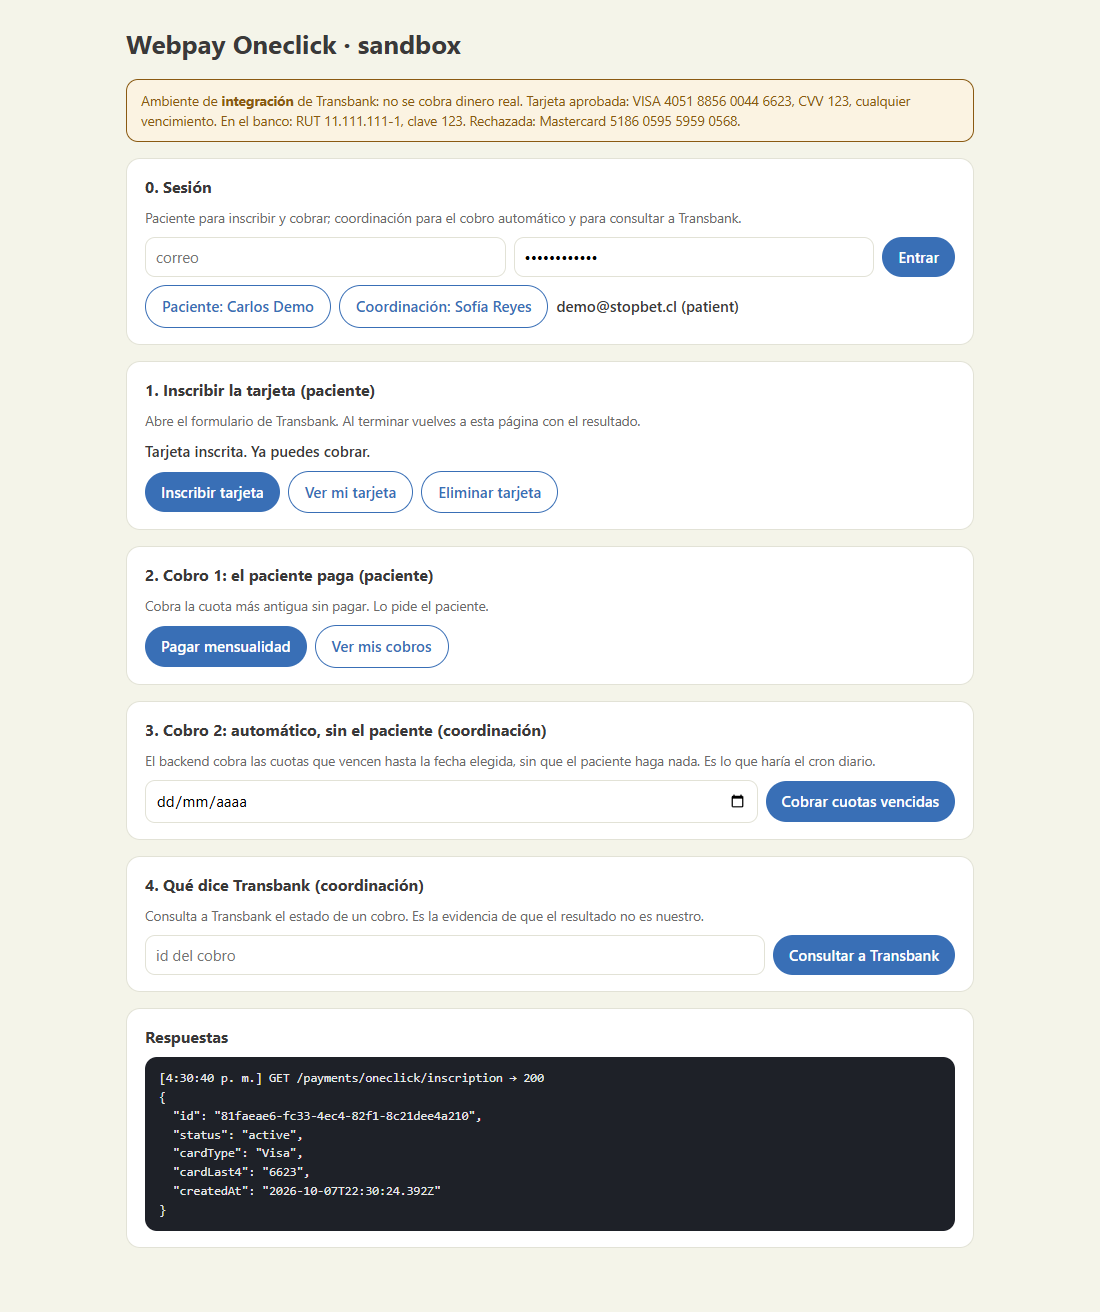
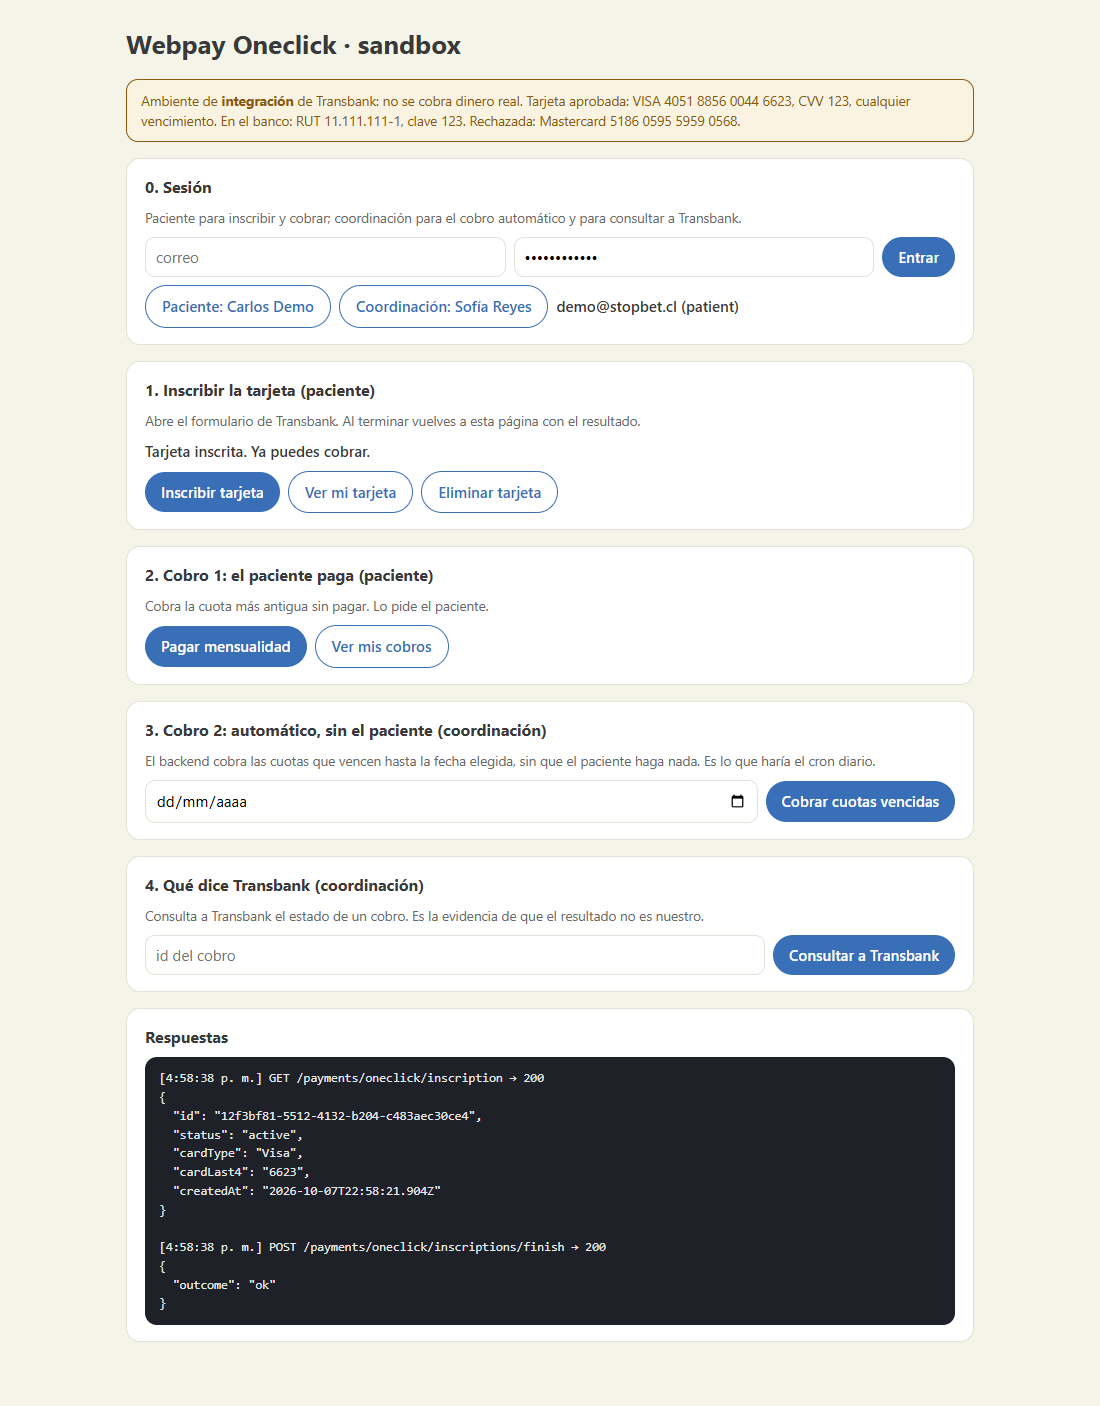
docs(SPIKE-2): actualizar el flujo, la matriz de permisos y la evidencia tras el arreglo de seguridad
Repite la evidencia contra el sandbox de Transbank con el cierre autenticado
de la inscripción (dos cobros AUTHORIZED, el segundo automático) y documenta
las dos reglas nuevas: el retorno no cierra nada y una cuenta suspendida ni
se cobra ni se reactiva por un cobro.

Changed region(s): [[0.1236, 0.0312, 0.8964, 0.9688], [0.8036, 0.1562, 0.8655, 0.2188]]

diff --git a/docs/planning/spike2-pasarela-pago.md b/docs/planning/spike2-pasarela-pago.md
@@ -168,9 +168,12 @@ Paciente (sesión)          Backend (StopBet)                     Transbank (int
       │◀── { token, urlWebpay } ──│◀──────────────── token + url_webpay ─────│
       │  el navegador hace POST con TBK_TOKEN a urlWebpay ─────────────────▶│  formulario + banco
       │◀──────────── vuelve por GET/POST a /inscriptions/return?TBK_TOKEN ───│
+      │◀── 303: el retorno solo REENVÍA el token a la página, no cierra nada
+      │  POST /inscriptions/finish { token } ─▶│  con la SESIÓN del paciente
+      │                           │  ¿la inscripción es de este usuario? si no: «error»
       │                           │  finish(token) ──────────────────────────▶│  (dentro de 60 s)
       │                           │◀── tbk_user + tipo y últimos 4 dígitos ───│  se guarda cifrado
-      │◀── 303 a la página con el resultado
+      │◀── { outcome: "ok" }
 
 COBRO 1 (lo pide el paciente)      POST /charges ──▶ authorize(tbk_user, buyOrder, monto) ──▶ AUTHORIZED
 COBRO 2 (sin el paciente)          run-due / cron ──▶ authorize(...) con la misma tarjeta ───▶ AUTHORIZED
@@ -188,7 +191,7 @@ columna que el RUT), el tipo de tarjeta y los **últimos 4 dígitos**.
 | `payment_inscriptions` | La tarjeta del paciente. Índice único parcial: **una sola activa por usuario**. Estados: `pending`, `active`, `failed`, `aborted`, `deleted`. |
 | `payment_charges` | Cada intento de cobro, con la orden de compra padre e hija (únicas, ≤26 caracteres), monto, `triggeredBy` (`user` o `automatic`), estado y el código y la hora que devuelve Transbank. |
 | `oneclick-payments.service.ts` | Inscripción, cobro de una cuota, cobro de las vencidas y el cron. Liquida la cuota con `BillingService.settleInvoices`, la misma ruta que usa el pago simulado, así que reactiva la cuenta y crea la cuota siguiente igual que hoy. |
-| `tbk-return-params.decorator.ts` | Lee **solo** `TBK_TOKEN`, `TBK_ORDEN_COMPRA` y `TBK_ID_SESION` del retorno de Transbank. Con un DTO, el `ValidationPipe` global (`forbidNonWhitelisted`) respondería 400 al navegador ante cualquier campo extra. |
+| `tbk-return-params.decorator.ts` | Lee **solo** `TBK_TOKEN`, `TBK_ORDEN_COMPRA` y `TBK_ID_SESION` del retorno de Transbank, para reenviarlos. Con un DTO, el `ValidationPipe` global (`forbidNonWhitelisted`) respondería 400 al navegador ante cualquier campo extra. El cierre, que sí viene del cliente con sesión, usa un DTO normal (`finish-inscription.dto.ts`). |
 | `oneclick-test-page.ts` | La página de prueba (`/payments/oneclick/test-page`), con los botones de cada paso y la respuesta JSON a la vista. |
 
 ### 4.3 Endpoints
@@ -196,7 +199,8 @@ columna que el RUT), el tipo de tarjeta y los **últimos 4 dígitos**.
 | Endpoint | Acceso | Para qué |
 |---|---|---|
 | `POST /payments/oneclick/inscriptions` | paciente | Inscribir la tarjeta |
-| `GET` y `POST /payments/oneclick/inscriptions/return` | público, 20 por minuto | A donde vuelve Transbank; siempre redirige 303 al resultado |
+| `GET` y `POST /payments/oneclick/inscriptions/return` | público, 20 por minuto | A donde vuelve Transbank. **No cierra nada**: redirige 303 a la página reenviando `TBK_*` |
+| `POST /payments/oneclick/inscriptions/finish` | paciente (dueño de la inscripción) | Cierra la inscripción con lo que Transbank dejó en la URL; devuelve `{ outcome }` |
 | `GET` y `DELETE /payments/oneclick/inscription` | paciente | Ver o eliminar la tarjeta |
 | `POST /payments/oneclick/charges` | paciente | **Cobro 1** |
 | `GET /payments/oneclick/charges` | paciente | Sus cobros |
@@ -217,7 +221,22 @@ El riesgo real de un cobro automático es cobrar dos veces la misma cuota. Tres 
 3. Aprobado quiere decir `response_code === 0` **y** `status === 'AUTHORIZED'` en **cada** detalle. El
    ejemplo del SDK mira un `status` de nivel superior que la respuesta no trae.
 
-### 4.5 Configuración
+### 4.5 Quién puede inscribir y a quién se cobra
+
+Dos reglas que salieron de la revisión de seguridad del PR:
+1. **El retorno de Transbank no cierra la inscripción.** Es una redirección del navegador y llega sin
+   sesión; si cerrara con solo el token, quien abre un formulario con su propia cuenta podría hacer que
+   otra persona lo complete con SU tarjeta y dejarla atada a la cuenta de quien lo abrió (así quedaría
+   cobrándose la mensualidad del atacante). Por eso la cierra `POST /inscriptions/finish`, que exige la
+   sesión del paciente y que **la inscripción sea suya**; una ajena responde igual que una inexistente.
+   En el cliente real (app o web) la pantalla de resultado hace esa llamada al volver de Transbank.
+2. **Una cuenta suspendida no se cobra ni se reactiva por un cobro.** Suspender una cuenta cierra su
+   acceso; el cobro automático no tiene sesión que se lo impida, así que lo respeta él: omite la cuota y
+   no toca la cuenta. Solo el pago simulado (`POST /billing/pay`, que pide el propio paciente con su
+   sesión) sigue reactivando. Si el cliente quiere que pagar levante una suspensión por mora, hay que
+   decidirlo (`ASUNCIONES-PENDIENTES.md`, punto 5).
+
+### 4.6 Configuración
 
 Todo opcional. Sin ninguna variable usa el ambiente de integración con las credenciales públicas de
 Transbank (no se cobra dinero real).
@@ -232,14 +251,14 @@ Transbank (no se cobra dinero real).
 
 Los logs llevan ids, orden de compra, estado y código. **Nunca** correo, `tbk_user`, `TBK_TOKEN` ni datos de tarjeta.
 
-### 4.6 Tests
+### 4.7 Tests
 
 - **Unitarios** (`payments/*.spec.ts`, `billing/billing.service.spec.ts`): inscripción ok, rechazada, anulada, repetida y con timeout; cobro autorizado que liquida la cuota; rechazado que no la toca; error de red que consulta el estado; sin doble cobro; el mapeo de las respuestas del SDK.
-- **e2e** (`test/payments.e2e-spec.ts`, 27 casos): Transbank reemplazado por un gateway falso, así que corre en CI. Usa el `ValidationPipe` real de `main.ts`. Cubre permisos, el retorno por GET con parámetros desconocidos y por POST urlencoded, la anulación, **los dos cobros** (paciente y automático), el 409 de la doble cobranza, el rechazo y el 404 de las herramientas de desarrollo.
+- **e2e** (`test/payments.e2e-spec.ts`, 31 casos): Transbank reemplazado por un gateway falso, así que corre en CI. Usa el `ValidationPipe` real de `main.ts`. Cubre permisos, el retorno por GET con parámetros desconocidos y por POST urlencoded, la anulación, que una inscripción abierta por otra persona **no se pueda cerrar con mi sesión**, **los dos cobros** (paciente y automático), el 409 de la doble cobranza, el rechazo, que el cobro automático **omita una cuenta suspendida** y el 404 de las herramientas de desarrollo.
 
 ## 5. Evidencia del sandbox
 
-Corrida del **07-10-2026 (19:30, hora de Chile)** contra `webpay3gint.transbank.cl` (ambiente de
+Corrida del **07-10-2026 (19:58, hora de Chile)** contra `webpay3gint.transbank.cl` (ambiente de
 integración, credenciales públicas), con el backend local y los datos del seed. Paciente: Carlos Demo.
 Coordinación: Sofía Reyes. El recorrido lo hizo un script de Playwright sobre el **formulario real** de
 Transbank, no una simulación.
@@ -250,7 +269,7 @@ VISA de prueba `4051 8856 0044 6623`, banco de prueba (RUT `11.111.111-1`, clave
 
 ![Formulario de Transbank con la tarjeta de prueba](img/spike2-pago-1-formulario-transbank.png)
 
-Resultado en StopBet: tarjeta `Visa` terminada en `6623`, estado `active`, código de respuesta `0`. El
+La página cierra la inscripción al volver de Transbank, con la sesión del paciente (`POST /inscriptions/finish`). Resultado en StopBet: tarjeta `Visa` terminada en `6623`, estado `active`, código de respuesta `0`. El
 `tbk_user` queda cifrado en la columna (no se muestra en ninguna respuesta de la API).
 
 ![Tarjeta inscrita](img/spike2-pago-2-tarjeta-inscrita.png)
@@ -262,9 +281,9 @@ Resultado en StopBet: tarjeta `Visa` terminada en `6623`, estado `active`, códi
 | Quién lo dispara | el paciente (`POST /charges`) | el backend, **sin sesión del paciente** (`run-due` como coordinación) |
 | `triggeredBy` | `user` | `automatic` |
 | Cuota | 2026-10 · $30.000 | 2026-11 · $30.000 |
-| Orden de compra | `SBMUYI61LWB3PDJM` | `SBMUYI6BHX6VGXEZ` |
+| Orden de compra | `SBMUYJ60G3ECI6VK` | `SBMUYJ6AJ2WR299O` |
 | Resultado | `AUTHORIZED`, código `0`, autorización `1213` | `AUTHORIZED`, código `0`, autorización `1213` |
-| Hora que informa Transbank | 19:30:43 (Chile) | 19:30:56 (Chile) |
+| Hora que informa Transbank | 19:58:41 (Chile) | 19:58:54 (Chile) |
 | Estado de la cuota después | `paid` | `paid` |
 
 ![Cobro 1, el paciente paga](img/spike2-pago-3-cobro-1-paciente.png)
@@ -275,18 +294,18 @@ Resultado en StopBet: tarjeta `Visa` terminada en `6623`, estado `active`, códi
 la orden de compra de cada cobro:
 
 ```json
-{ "buyOrder": "SBMUYI61LWB3PDJM", "approved": true, "status": "AUTHORIZED", "responseCode": 0,
-  "authorizationCode": "1213", "transactionDate": "2026-10-07T22:30:43.777Z" }
-{ "buyOrder": "SBMUYI6BHX6VGXEZ", "approved": true, "status": "AUTHORIZED", "responseCode": 0,
-  "authorizationCode": "1213", "transactionDate": "2026-10-07T22:30:56.616Z" }
+{ "buyOrder": "SBMUYJ60G3ECI6VK", "approved": true, "status": "AUTHORIZED", "responseCode": 0,
+  "authorizationCode": "1213", "transactionDate": "2026-10-07T22:58:41.834Z" }
+{ "buyOrder": "SBMUYJ6AJ2WR299O", "approved": true, "status": "AUTHORIZED", "responseCode": 0,
+  "authorizationCode": "1213", "transactionDate": "2026-10-07T22:58:54.900Z" }
 ```
 
 **En la base** (`payment_charges` unido con `invoices`):
 
 ```
  parentBuyOrder   | amountCLP | status     | trigger   | rc | auth | tipo | month   | factura
- SBMUYI61LWB3PDJM |     30000 | authorized | user      |  0 | 1213 | VN   | 2026-10 | paid
- SBMUYI6BHX6VGXEZ |     30000 | authorized | automatic |  0 | 1213 | VN   | 2026-11 | paid
+ SBMUYJ60G3ECI6VK |     30000 | authorized | user      |  0 | 1213 | VN   | 2026-10 | paid
+ SBMUYJ6AJ2WR299O |     30000 | authorized | automatic |  0 | 1213 | VN   | 2026-11 | paid
 ```
 
 El paciente recibió dos avisos «Recibimos tu pago» (2026-10 y 2026-11) con `target: payment`.
@@ -296,8 +315,10 @@ El paciente recibió dos avisos «Recibimos tu pago» (2026-10 y 2026-11) con `t
 | Caso | Qué se hizo | Resultado |
 |---|---|---|
 | Tarjeta rechazada | Mastercard de prueba `5186 0595 5959 0568` | Transbank la rechaza al inscribir (código `-1`). Inscripción `failed`, el paciente sigue sin tarjeta. |
-| El paciente abandona | «Abandonar y volver» en el formulario de Transbank | Llega `TBK_ORDEN_COMPRA`: no se llama a `finish`. Inscripción `aborted`. |
+| El paciente abandona | «Abandonar y volver» en el formulario de Transbank | Llega `TBK_ORDEN_COMPRA`: no se cierra con Transbank. Inscripción `aborted`. |
 | Eliminar la tarjeta | `DELETE /inscription` | Se borra en Transbank y en StopBet; sirve para repetir la demo. |
+| Cierre con una sesión ajena | Un paciente intenta cerrar la inscripción que abrió otro | Responde `error`, no llama a Transbank y la inscripción del dueño sigue cerrable. (Probado en el e2e.) |
+| Cuenta suspendida | Cobro automático de una cuota vencida de una cuenta suspendida | Se omite: no se cobra, la cuota sigue vencida y la cuenta sigue suspendida. (Probado en el e2e.) |
 | Doble cobro | Cobrar otra vez la cuota ya pagada; correr `run-due` dos veces | 409 y no se llama a Transbank; la segunda corrida no cobra nada. (Probado en el e2e.) |
 
 ---
@@ -324,7 +345,7 @@ Actualizados `docs/ASUNCIONES-PENDIENTES.md`, `docs/presupuesto-stack-2026-09.md
 **Fuera de este Spike** (el sandbox no toca las pantallas de pacientes ni de familiares):
 - **Cambiar el pago simulado por el real** en `PaymentScreen`, `SuspendedAccountScreen` y el portal del familiar.
 - **Quién paga**, el paciente o el familiar (`ASUNCIONES-PENDIENTES.md`, punto 4). Inscribir la tarjeta de un familiar no está resuelto.
-- **Paciente suspendido:** hoy no puede ni iniciar sesión para pagar (punto 5). Un cobro automático lo reactiva **sin que él entre**, lo que resuelve parte del problema. Falta decidir si eso es lo que quiere el cliente.
+- **Paciente suspendido:** hoy no puede ni iniciar sesión para pagar (punto 5). El cobro automático **lo omite y no lo reactiva** a propósito (§4.5): suspender cierra el acceso y ningún cobro sin sesión debe pasar por encima. Si el cliente quiere que pagar levante la suspensión por mora, es una decisión suya.
 - **La regla del tercer mes** (punto 5-bis) y los **reintentos** ante un rechazo: ninguna pasarela decide eso por nosotros con Oneclick.
 - **Devoluciones**, y **qué dice la notificación** al paciente cuando un cobro falla.
 - **Atar la activación de la cuenta** (HdU19) al primer cobro exitoso.
@@ -353,7 +374,7 @@ Cosas que la documentación de Transbank no avisa y que conviene tener a mano al
   ya al inscribir. El rechazo de un cobro se probó solo con tests (unitario y e2e), no contra Transbank.
 - **El `finish` de una inscripción que nunca se completó responde `-96`**, y Transbank documenta que hay que
   llamarlo dentro de 60 s. Se trata como inscripción fallida, sin error para el navegador.
-- **Las inscripciones abandonadas quedan `pending`** para siempre (en la prueba quedaron 4). No molestan, pero
+- **Las inscripciones abandonadas quedan `pending`** para siempre (en la prueba quedaron varias). No molestan, pero
   hace falta una tarea que las venza antes de producción.
 - **Un cobro que queda en `processing`** (red cortada y Transbank sin responder el estado) bloquea su cuota a
   propósito. Falta una tarea de conciliación que lo resuelva consultando a Transbank.

diff --git a/CLAUDE.md b/CLAUDE.md
@@ -40,8 +40,9 @@ Plataforma clínica para tratamiento de ludopatía. Datos de pacientes son **sen
   - **`transbank-sdk` se importa en un solo archivo, `oneclick.gateway.ts`**, porque el SDK devuelve `any` y porque cambiar de pasarela (Flow es el respaldo) tiene que tocar solo ese archivo. Es opcional y se apaga solo, como `MailService`: sin variables usa el ambiente de **integración** (credenciales públicas, sin dinero real); en producción sin los tres datos de comercio responde 503.
   - **Nunca se cobra dos veces la misma cuota.** El cobro se inserta en `processing` **antes** de llamar a Transbank, con un índice único parcial sobre `invoiceId`. Si el `authorize` se corta sin saber si cobró, el cobro **se queda en `processing` y bloquea la cuota a propósito**: es mejor una cuota trabada que revisa una persona que un cobro doble. Falta una tarea de conciliación (ver §7 del documento).
   - ⚠ **Transbank manda la hora de Chile con sufijo `Z`**, no UTC: se convierte con `chileWallClockToDate` (`common/chile-date.ts`). Re-verificarlo con el comercio real.
-  - El retorno del navegador desde Transbank (`/inscriptions/return`) es **público y no usa DTO**: el `ValidationPipe` global (`forbidNonWhitelisted`) le respondería 400 a cualquier campo extra. Lo lee `tbk-return-params.decorator.ts`, que toma solo `TBK_*`.
+  - ⚠ **El retorno del navegador desde Transbank (`/inscriptions/return`) es público y NO cierra la inscripción**: con solo el token cualquiera podría completar la tarjeta de otra persona dentro de SU cuenta. Solo reenvía los parámetros a la página, y la inscripción la cierra `POST /inscriptions/finish` con la sesión del paciente, exigiendo que sea suya. El retorno no usa DTO porque el `ValidationPipe` global (`forbidNonWhitelisted`) le respondería 400 a cualquier campo extra; lo lee `tbk-return-params.decorator.ts`, que toma solo `TBK_*`.
   - **El cobro automático diario está apagado** (`TBK_AUTO_CHARGE_CRON=true` lo enciende): no lo prendas en Railway, cobraría sobre la base de demo. La página de prueba y el cobro por fecha necesitan `ENABLE_DEV_TOOLS=true`.
+  - **Una cuenta suspendida no se cobra ni se reactiva por un cobro.** Suspender cierra el acceso y el cobro automático no tiene sesión que se lo impida: `chargeInvoice` rechaza cuentas no activas y `settleInvoices` solo reactiva si el llamador lo pide (`reactivateAccount`, que usa únicamente el pago simulado).
   - **StopBet nunca ve la tarjeta:** se guarda el `tbk_user` cifrado, el tipo y los últimos 4 dígitos. Los logs no llevan correo, `tbk_user` ni `TBK_TOKEN`.
 - **Mobile** (React Native CLI 0.86): compila y corre en Android físico y en emulador. Flujo y *gotchas* del monorepo en `apps/mobile/README.md`. El check-in se encola en `AsyncStorage` si no hay red y se reintenta al reconectar; el asistente muestra una tarjeta de crisis (pánico / compañero de viaje / `*4141`) ante riesgo alto, y un mensaje de respaldo dentro del hilo si el envío falla.
   - **Rendimiento (22-09, `docs/auditoria-rendimiento-mobile-2026-09-22.md`): 15 de 17 hallazgos aplicados.** El bundle de producción pasó de **3,29 MB a 1,78 MB**. Lo que hay que respetar al escribir código:

diff --git a/docs/security/permissions-matrix.md b/docs/security/permissions-matrix.md
@@ -222,10 +222,11 @@ Sandbox de Webpay Oneclick. Ver [`docs/planning/spike2-pasarela-pago.md`](../pla
 | Método + Path | Rol objetivo | Estado actual |
 |---|---|---|
 | `POST /payments/oneclick/inscriptions` | `patient` | ✅ Protegido |
-| `GET /payments/oneclick/inscriptions/return` y `POST` | Público | 🔓 Público — Transbank devuelve al **navegador** del paciente sin token. Solo lee `TBK_TOKEN`, `TBK_ORDEN_COMPRA` y `TBK_ID_SESION`, `@Throttle` de 20 por minuto, y siempre responde con una redirección, nunca con un error |
+| `GET /payments/oneclick/inscriptions/return` y `POST` | Público | 🔓 Público — Transbank devuelve al **navegador** del paciente sin token. **No cierra la inscripción**: solo lee `TBK_TOKEN`, `TBK_ORDEN_COMPRA` y `TBK_ID_SESION` y los reenvía a la página, `@Throttle` de 20 por minuto, y siempre responde con una redirección, nunca con un error |
+| `POST /payments/oneclick/inscriptions/finish` | `patient` (dueño) | ✅ Protegido — cierra la inscripción **solo si es de quien llama**; una ajena responde `error`, igual que una inexistente. Es lo que evita que alguien deje la tarjeta de otra persona atada a su cuenta |
 | `GET /payments/oneclick/inscription` y `DELETE` | `patient` (dueño) | ✅ Protegido — solo la tarjeta propia; devuelve tipo y últimos 4 dígitos, nunca el `tbk_user` |
 | `POST /payments/oneclick/charges` y `GET` | `patient` (dueño) | ✅ Protegido — solo cuotas propias |
-| `POST /payments/oneclick/charges/run-due` | `coordinator` | ✅ Protegido + `ENABLE_DEV_TOOLS` (404 si no está) — cobra la cuota vencida de **todos** los pacientes que tengan una tarjeta inscrita |
+| `POST /payments/oneclick/charges/run-due` | `coordinator` | ✅ Protegido + `ENABLE_DEV_TOOLS` (404 si no está) — cobra la cuota vencida de **todos** los pacientes que tengan una tarjeta inscrita y la cuenta activa (omite las suspendidas) |
 | `GET /payments/oneclick/charges/:id/transbank-status` | `coordinator` | ✅ Protegido + `ENABLE_DEV_TOOLS` |
 | `GET /payments/oneclick/test-page` | Público | 🔓 Público, **solo con `ENABLE_DEV_TOOLS`** (404 si no). Es HTML estático sin datos: no hay nada que filtrar |
 

diff --git a/docs/ASUNCIONES-PENDIENTES.md b/docs/ASUNCIONES-PENDIENTES.md
@@ -207,8 +207,9 @@ hace dos cobros, el segundo sin el paciente: [`planning/spike2-pasarela-pago.md`
 - **Es una decisión del cliente, no nuestra:** la recomendación depende de que **AJUTER se afilie a
   Transbank**, un trámite comercial cuyo plazo no está publicado. Hay cinco preguntas para Transbank en
   la §7 del documento (tarifa, débito y prepago, si exige Webpay Plus, documentos de una fundación, IVA).
-- **Sobre el punto 5:** un cobro automático reactiva al paciente **sin que él inicie sesión**, lo que
-  resuelve parte del problema del suspendido. Falta decidir si el cliente quiere eso.
+- **Sobre el punto 5:** el cobro automático **omite las cuentas suspendidas y no las reactiva**: suspender
+  cierra el acceso y ningún cobro sin sesión debe pasar por encima. Si el cliente quiere que pagar levante
+  una suspensión por mora, hay que decidirlo y definir qué se le cobra a un suspendido.
 - **Sobre el punto 4:** la tarjeta se inscribe a nombre de un paciente. Que pague un familiar sigue sin
   resolverse.
 - Los **reintentos** ante un rechazo y qué se le avisa al paciente cuando un cobro falla: ninguna

diff --git a/docs/avisos-al-equipo.md b/docs/avisos-al-equipo.md
@@ -39,6 +39,9 @@ está.
 - **No cobra dinero real**: sin variables usa el ambiente de *integración* de Transbank, con credenciales
   públicas. En producción, sin `TBK_ENVIRONMENT=production` y los tres datos de comercio, queda apagado y
   responde 503.
+- **El retorno de Transbank ya no cierra la inscripción**: la cierra `POST /payments/oneclick/inscriptions/finish` con la
+  sesión del paciente. Quien integre la pantalla de resultado (app o web) tiene que llamarlo con lo que Transbank deja en la URL;
+  la página de prueba ya lo hace sola. Además, **el cobro automático omite las cuentas suspendidas**.
 - **El cobro automático diario está apagado** (`TBK_AUTO_CHARGE_CRON=true` lo enciende). No lo prendas
   en Railway: cobraría sobre la base de demo.
 - Para probarlo en local: `ENABLE_DEV_TOOLS=true` y abrir `http://localhost:3000/payments/oneclick/test-page`.
